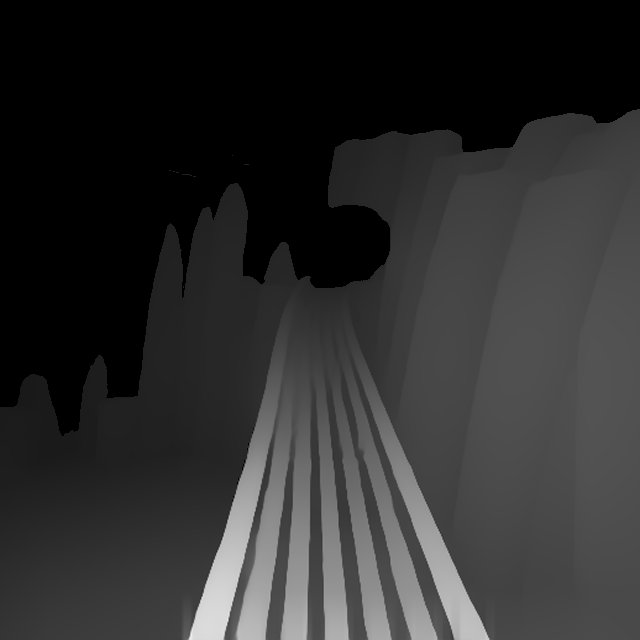
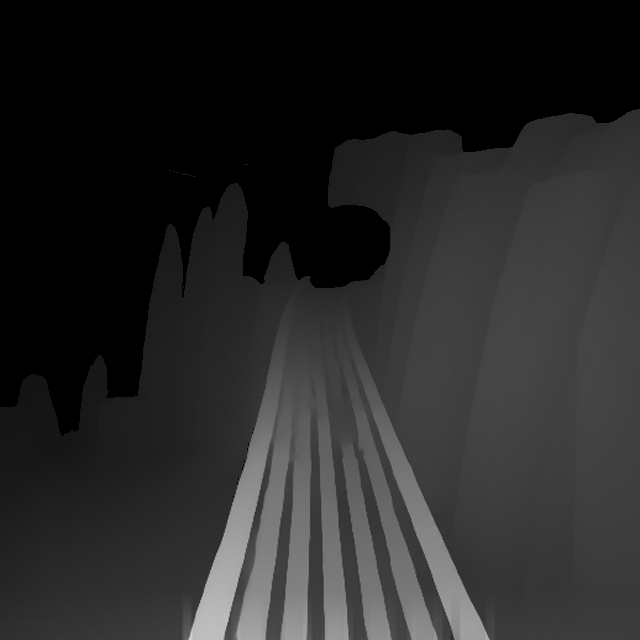
MASS 84: depth steps kept only where the model bears them out
agree_depth.py rebuilds the depth from its own gradients. A step over 10%
that neither the model's mesh nor its fused cloud bears out is flattened to
the mesh's surface, which removes Depth Anything's slabs on the rock wall. A
step the cloud bears out stays: the lamp post is in the cloud though not in
the mesh. So do steps over half the value. view_check.py --connected draws the
faces as the viewer does, so a false step smears and is counted: 24.57
against 25.30 for the live depth over 52 views. Holding the levels to the
mesh too made it worse. Original, Layered and the walk (MASS 89 the same)
are rebuilt from it.

Claude-Session: https://claude.ai/code/session_01PGTZsQJKeQ77ippduWGzGV

Changed region(s): [[0.5312, 0.7812, 0.7812, 1.0], [0.2812, 0.8125, 0.4375, 1.0]]

diff --git a/cube/myst3/colmap/agree_depth.py b/cube/myst3/colmap/agree_depth.py
@@ -1,0 +1,222 @@
+#!/usr/bin/env python3
+"""
+A node's depth whose steps are those the network and the model's mesh agree
+on: the network's shape, rebuilt from its gradients with each step checked
+against the mesh.
+
+    python agree_depth.py SITE OUT_DIR --names N1 ... N6 --mesh MESH_DIR
+        --node-depth node_depth.json [--tau 0.1] [--keep-above 0.5]
+        [--max-span 0.3] [--lam 0.01] [--masks MASKS --node 4084] [--band 48]
+
+SITE holds the node's depth (<name>_measured-depth.png, node_depth.py's:
+Depth Anything fitted to what was measured); MESH_DIR mesh_depth.py's output
+for the node (<name>_mesh-z.npy and _mesh-span.npy, in the site depth's
+units). Working in q = r_far / r on each face, between every pixel and its
+right and lower neighbour:
+  - a step is a change of more than --tau of the value over the two pixels
+    either side;
+  - where the network steps and the mesh, reliable there (its triangle
+    spanning under --max-span radians, not under the sky and water masks),
+    does not, the network's step was one it made up (MASS 84's rock wall: a
+    slab per column): the gradient there is the mesh's;
+  - where the mesh steps and the network does not, the mesh's (a seam between
+    its flat patches) is ignored: the network's gradient stays;
+  - with --cloud, a step the fused cloud bears out (something nearer by --tau
+    within a few px of its near side, after cloud_depth.py's filters) stays:
+    the lamp post beside MASS 84's walkway is in the cloud and not the mesh,
+    and is as wide as the rock wall's made-up slabs, which the cloud has as
+    a smooth wall;
+  - a network step of more than --keep-above of the value stays whatever the
+    mesh says, and with --thin so does any step beside a thin near thing (one
+    nearer than round it by 10% and gone after an opening --thin px across):
+    rails, posts and slats the mesh never had, whose steps off the wall behind
+    are about a slab's.
+The depth is then the one whose gradients are those, held to the mesh with
+weight --lam where the mesh is reliable (so a face the network put at the
+wrong distance overall, MASS 84's face 3, comes to the mesh's) and very
+weakly to the network's own depth elsewhere: a sparse linear solve (scipy).
+The six faces are blended at their seams (node_depth.feather, --band px) and
+written in the site's encoding with r_far set from the new depth, beyond it
+the farthest level, never the sky. Needs numpy, Pillow, opencv-python, scipy;
+node_depth.py beside it.
+"""
+import argparse
+import json
+import os
+import sys
+
+import cv2
+import numpy as np
+from PIL import Image
+
+sys.path.insert(0, os.path.dirname(os.path.abspath(__file__)))
+from node_depth import feather  # noqa: E402
+
+RATIO = 20.0
+
+
+def steps_of(q, tau):
+    """Pairs (i, i+1) along x and along y where q changes by more than tau of
+    its value over the two pixels either side, and the relative size."""
+    out = []
+    for ax in (1, 0):
+        prev = np.roll(q, 1, ax); nxt2 = np.roll(q, -2, ax)
+        nxt = np.roll(q, -1, ax)
+        lo = np.maximum(np.minimum(prev, nxt2), 1e-9)
+        rel = np.abs(nxt2 - prev) / lo
+        rel1 = np.abs(nxt - q) / np.maximum(np.minimum(q, nxt), 1e-9)
+        size = np.maximum(rel, rel1)
+        out.append((size > tau, size))
+    return out
+
+
+def cloud_q(xyz, R, t, N, norm, r_far, scale, q, mask, window=5, behind=0.6, gate=2.5):
+    """The fused cloud projected into a face (nearest point a pixel), in q, with
+    cloud_depth.py's filters: not behind a nearer point within window px, not
+    more than gate times off q, not under mask."""
+    Y = xyz @ R.T + t
+    Y = Y[Y[:, 2] > 1e-3]
+    x = Y[:, 0] / Y[:, 2]; y = Y[:, 1] / Y[:, 2]
+    k = (np.abs(x) < 1) & (np.abs(y) < 1)
+    Y, x, y = Y[k], x[k], y[k]
+    px = np.clip(((x + 1) * N / 2).astype(int), 0, N - 1); py = np.clip(((y + 1) * N / 2).astype(int), 0, N - 1)
+    z = np.full((N, N), np.inf); np.minimum.at(z, (py, px), Y[:, 2])
+    qc = np.where(np.isfinite(z), r_far / (np.where(np.isfinite(z), z, 1) * norm / scale), 0.0)
+    has = (qc > 0) & mask
+    near = cv2.dilate(np.where(has, qc, 0).astype(np.float32), np.ones((window, window), np.uint8))
+    has &= qc >= behind * near
+    has &= np.abs(np.log(np.maximum(qc, 1e-9) / np.maximum(q, 1e-9))) < np.log(gate)
+    return np.where(has, qc, 0.0)
+
+
+def solve(q, gx, gy, wx, wy, anchor, wa):
+    """The field whose differences are gx, gy (weights wx, wy) and which is held
+    to anchor with weights wa."""
+    import scipy.sparse as sp
+    import scipy.sparse.linalg as spl
+    H, W = q.shape
+    n = H * W
+    idx = np.arange(n).reshape(H, W)
+    rows, cols, vals, b = [], [], [], np.zeros(n)
+    for (a0, b0, g, w) in ((idx[:, :-1], idx[:, 1:], gx[:, :-1], wx[:, :-1]), (idx[:-1, :], idx[1:, :], gy[:-1, :], wy[:-1, :])):
+        i, j, g, w = a0.ravel(), b0.ravel(), g.ravel(), w.ravel()
+        m = w > 0
+        i, j, g, w = i[m], j[m], g[m], w[m]
+        rows += [i, j, i, j]; cols += [i, j, j, i]; vals += [w, w, -w, -w]
+        np.add.at(b, j, w * g); np.add.at(b, i, -w * g)        # q_j - q_i = g
+    A = sp.csr_matrix((np.concatenate(vals), (np.concatenate(rows), np.concatenate(cols))), shape=(n, n))
+    A = A + sp.diags(wa.ravel() + 1e-9)
+    x = spl.spsolve(A.tocsc(), b + wa.ravel() * anchor.ravel())
+    return x.reshape(H, W)
+
+
+def main():
+    ap = argparse.ArgumentParser(description=__doc__, formatter_class=argparse.RawDescriptionHelpFormatter)
+    ap.add_argument('site'); ap.add_argument('out')
+    ap.add_argument('--names', nargs=6, required=True); ap.add_argument('--mesh', required=True)
+    ap.add_argument('--node-depth', required=True)
+    ap.add_argument('--tau', type=float, default=0.1); ap.add_argument('--keep-above', type=float, default=0.5)
+    ap.add_argument('--max-span', type=float, default=0.3); ap.add_argument('--lam', type=float, default=0.01)
+    ap.add_argument('--thin', type=int, default=0, help='protect the steps of thin near things this many px across (0: off)')
+    ap.add_argument('--cloud', help='a fused cloud (fused.ply): a network step the cloud bears out is kept')
+    ap.add_argument('--sparse', help="with --cloud: the cloud's text model, with the node's faces (f<k>/MA-<node>.jpg)")
+    ap.add_argument('--scale', type=float, default=1.0, help="with --cloud: the model's units in the site depth's")
+    ap.add_argument('--masks'); ap.add_argument('--node')
+    ap.add_argument('--band', type=int, default=48)
+    ap.add_argument('--depth-suffix', default='_measured-depth.png')
+    a = ap.parse_args()
+    os.makedirs(a.out, exist_ok=True)
+    r_far = json.load(open(a.node_depth))['r_far']
+    faces, report = {}, {}
+    poses, xyz = {}, None
+    if a.cloud:
+        from node_depth import qvec2rot, read_ply_xyz
+        want = {f'f{k}/MA-{a.node}.jpg': k for k in range(1, 7)}
+        with open(os.path.join(a.sparse, 'images.txt')) as fh:
+            for line in fh:
+                p = line.split()
+                if len(p) >= 10 and p[9] in want:
+                    poses[want[p[9]]] = (qvec2rot(np.array(p[1:5], float)), np.array(p[5:8], float))
+        xyz = read_ply_xyz(a.cloud)
+    for k, name in enumerate(a.names, 1):
+        d8 = np.asarray(Image.open(os.path.join(a.site, name + a.depth_suffix)).convert('L')).astype(np.float64)
+        N = d8.shape[0]
+        u = (np.arange(N) + .5) / N * 2 - 1
+        xx, yy = np.meshgrid(u, u)
+        norm = np.sqrt(1 + xx ** 2 + yy ** 2)
+        sky = d8 == 0
+        q = np.where(sky, 1.0, 1 + (RATIO - 1) * d8 / 255)       # the sky held at the farthest level
+        zm = np.load(os.path.join(a.mesh, f'{name}_mesh-z.npy')).astype(np.float64)
+        span = np.load(os.path.join(a.mesh, f'{name}_mesh-span.npy'))
+        if zm.shape[0] != N:
+            zm = cv2.resize(zm, (N, N), interpolation=cv2.INTER_NEAREST); span = cv2.resize(span, (N, N), interpolation=cv2.INTER_NEAREST)
+        good = (zm > 0) & (span < a.max_span) & ~sky
+        mmask = np.ones((N, N), bool)
+        if a.masks and a.node:
+            mp = os.path.join(a.masks, f'f{k}', f'MA-{a.node}.jpg.png')
+            if os.path.exists(mp):
+                mmask = np.asarray(Image.open(mp).convert('L').resize((N, N), Image.NEAREST)) > 127
+                good &= mmask
+        qm = np.where(good, r_far / np.maximum(zm * norm, 1e-9), 0.0)
+        (sn_x, sz_x), (sn_y, sz_y) = steps_of(q, a.tau)
+        (sm_x, _), (sm_y, _) = steps_of(np.where(good, qm, q), a.tau)
+        gx = np.roll(q, -1, 1) - q; gy = np.roll(q, -1, 0) - q
+        gmx = np.roll(qm, -1, 1) - qm; gmy = np.roll(qm, -1, 0) - qm
+        okx = good & np.roll(good, -1, 1); oky = good & np.roll(good, -1, 0)
+        # the network's steps the mesh does not have, and are not big: the mesh's gradient there
+        fx = sn_x & ~sm_x & okx & (sz_x < a.keep_above)
+        fy = sn_y & ~sm_y & oky & (sz_y < a.keep_above)
+        if a.cloud:
+            # a step the cloud bears out stays: something near, by tau, within a few px
+            # of the step's near side (a lamp post the mesh lost is in the cloud; a
+            # slab Depth Anything made up is not: there the cloud has a smooth wall)
+            if k in poses:
+                qc = cloud_q(xyz, *poses[k], N, norm, r_far, a.scale, q, ~sky & mmask)
+                near_c = cv2.dilate(qc.astype(np.float32), np.ones((7, 7), np.uint8))
+                for f_, ax in ((fx, 1), (fy, 0)):
+                    nb = np.roll(q, -1, ax)
+                    far_q = np.minimum(q, nb)
+                    near_px = np.where(q >= nb, near_c, np.roll(near_c, -1, ax))
+                    f_ &= ~(near_px >= far_q * (1 + a.tau))
+                kept_c = int(fx.sum() + fy.sum())
+        if a.thin > 0:
+            # not beside thin near things (nearer than round them by 10%, gone after an
+            # opening --thin px across): an overhead rail or a lamp post steps off the wall
+            # behind it by about what a slab does, and the mesh never had it
+            qf = q.astype(np.float32)
+            loc = cv2.medianBlur(np.clip(qf * 10, 0, 255).astype(np.uint8), 31).astype(np.float32) / 10
+            nearer = ((qf > 1.1 * np.maximum(loc, 1e-3)) & ~sky).astype(np.uint8)
+            kk = cv2.getStructuringElement(cv2.MORPH_ELLIPSE, (a.thin, a.thin))
+            thin = (nearer > 0) & ~(cv2.morphologyEx(nearer, cv2.MORPH_OPEN, kk) > 0)
+            thin = cv2.dilate(thin.astype(np.uint8), np.ones((5, 5), np.uint8)) > 0
+            fx &= ~(thin | np.roll(thin, -1, 1)); fy &= ~(thin | np.roll(thin, -1, 0))
+        gx = np.where(fx, gmx, gx); gy = np.where(fy, gmy, gy)
+        wx = np.ones_like(q); wy = np.ones_like(q)
+        wx[:, -1] = 0; wy[-1, :] = 0
+        wx[sky | np.roll(sky, -1, 1)] = 0.01; wy[sky | np.roll(sky, -1, 0)] = 0.01     # loose against the sky
+        anchor = np.where(good, qm, q)
+        wa = np.where(good, a.lam, 1e-4)
+        wa[sky] = 1.0
+        qn = solve(q, gx, gy, wx, wy, anchor, wa)
+        qn = np.where(sky, 0.0, np.maximum(qn, 1e-3))
+        flat = int(fx.sum() + fy.sum())
+        report[name] = {'flattened_pairs': flat, 'mesh_good': float(good.mean())}
+        print(f'{name}: mesh reliable on {good.mean() * 100:.1f}%; {flat} network steps the mesh does not have flattened', flush=True)
+        faces[k] = {'r': np.where(qn > 0, r_far / np.maximum(qn, 1e-12), np.inf), 'name': name}
+    feather(faces, N, N, a.band)
+    allr = np.concatenate([f['r'][::4, ::4].ravel() for f in faces.values()])
+    allr = allr[np.isfinite(allr)]
+    r_far_new = float(RATIO * np.percentile(allr, 0.5))
+    for k, f in faces.items():
+        qn = np.where(np.isfinite(f['r']), r_far_new / f['r'], 0.0)
+        d = np.clip((qn - 1) / (RATIO - 1), 0, 1)
+        out8 = np.where(qn > 0, np.maximum(np.rint(d * 255), 1), 0).astype(np.uint8)
+        Image.fromarray(out8).save(os.path.join(a.out, f['name'] + a.depth_suffix))
+    with open(os.path.join(a.out, 'agree_depth.json'), 'w') as fh:
+        json.dump({'r_far': r_far_new, 'r_far_before': r_far, 'tau': a.tau, 'keep_above': a.keep_above,
+                   'max_span': a.max_span, 'lam': a.lam, 'faces': report}, fh, indent=1)
+    print(f'r_far {r_far:.4f} before, {r_far_new:.4f} now')
+
+
+if __name__ == '__main__':
+    main()

diff --git a/cube/myst3/colmap/view_check.py b/cube/myst3/colmap/view_check.py
@@ -112,6 +112,37 @@ def splat(P, cols, R, t, cam, src_f, grow=1.0):
     return img, np.isfinite(zb)
 
 
+def stretch_points(Pg, Cg, R, t, cam, longest=96):
+    """The node's faces drawn as the viewer draws them, a surface through every
+    pixel and its right and lower neighbours: where two neighbours land 2 px
+    or more apart in the view, points along the line between them (in 3D,
+    so the stretch is where the surface is), their colours blended, at most
+    `longest` a line. Pg, Cg: (6, N, N, 3) positions (NaN where none) and
+    colours. Returns the extra points and colours."""
+    w, h, fx, fy, cx, cy = cam
+    Y = Pg @ R.T + t
+    z = Y[..., 2]
+    with np.errstate(all='ignore'):
+        x = fx * Y[..., 0] / z + cx; y = fy * Y[..., 1] / z + cy
+    good = np.isfinite(z) & (z > 1e-3)
+    inside = good & (x > -50) & (x < w + 50) & (y > -50) & (y < h + 50)
+    outP, outC = [], []
+    for a_, b_ in ((np.s_[:, :, :-1], np.s_[:, :, 1:]), (np.s_[:, :-1, :], np.s_[:, 1:, :])):
+        L = np.hypot(x[b_] - x[a_], y[b_] - y[a_])
+        ok = good[a_] & good[b_] & (inside[a_] | inside[b_]) & (L >= 2)
+        if not ok.any():
+            continue
+        m = np.minimum(np.ceil(L[ok]), longest).astype(int) - 1          # points inside each line
+        P1, P2 = Pg[a_][ok], Pg[b_][ok]; C1, C2 = Cg[a_][ok], Cg[b_][ok]
+        e = np.repeat(np.arange(len(m)), m)
+        start = np.repeat(np.cumsum(m) - m, m)
+        f = ((np.arange(len(e)) - start + 1) / np.repeat(m + 1, m))[:, None]
+        outP.append(P1[e] + f * (P2[e] - P1[e])); outC.append(C1[e] + f * (C2[e] - C1[e]))
+    if not outP:
+        return np.zeros((0, 3)), np.zeros((0, 3), np.float32)
+    return np.concatenate(outP), np.concatenate(outC).astype(np.float32)
+
+
 def main():
     ap = argparse.ArgumentParser(description=__doc__, formatter_class=argparse.RawDescriptionHelpFormatter)
     ap.add_argument('dense'); ap.add_argument('sparse')
@@ -120,6 +151,9 @@ def main():
     ap.add_argument('--scale', type=float, default=1.0)
     ap.add_argument('--radius', type=float, default=3.0); ap.add_argument('--frames', type=int, default=40)
     ap.add_argument('--out')
+    ap.add_argument('--connected', action='store_true',
+                    help="draw the faces as the viewer does, a surface joining neighbouring pixels (stretched across "
+                         "steps), the sky at r_far as the viewer puts it, not as separate points: a false step then smears")
     a = ap.parse_args()
     cams, imgs = read_model(a.sparse)
     own = {k: f'f{k}/MA-{a.node}.jpg' for k in range(1, 7)}
@@ -150,9 +184,9 @@ def main():
         face_dirs[k] = d / np.linalg.norm(d, axis=1, keepdims=True)
         face_cols[k] = img.reshape(-1, 3)
     src_f = FACE_F * N / 640
-    points = {}
+    points, grids = {}, {}
     for name, ddir, suffix, rjson in a.variant:
-        P, cols = [], []
+        P, cols, gP, gC = [], [], [], []
         r_far = json.load(open(rjson))['r_far'] if name != 'infinity' else 1.0
         for k, nm in enumerate(a.names, 1):
             if name == 'infinity':
@@ -160,10 +194,15 @@ def main():
             else:
                 d8 = np.asarray(Image.open(os.path.join(ddir, nm + suffix)).convert('L').resize((N, N), Image.NEAREST)).astype(float).ravel()
                 q = 1 + (RATIO - 1) * d8 / 255
-                r = np.where(d8 > 0, r_far / q * a.scale, np.nan)
+                # the viewer puts the sky (0) at r_far, the farthest it draws
+                r = np.where(d8 > 0, r_far / q * a.scale, r_far * a.scale if a.connected else np.nan)
             keep = np.isfinite(r)
             P.append(C + face_dirs[k][keep] * r[keep, None]); cols.append(face_cols[k][keep])
+            if a.connected:
+                gP.append((C + face_dirs[k] * r[:, None]).reshape(N, N, 3)); gC.append(face_cols[k].reshape(N, N, 3))
         points[name] = (np.concatenate(P), np.concatenate(cols))
+        if a.connected:
+            grids[name] = (np.stack(gP), np.stack(gC))
     names = [v[0] for v in a.variant]
     print('view'.ljust(28) + 'dist ' + ''.join(n[:14].rjust(15) for n in names) + '   covered', flush=True)
     sums = {n: [] for n in names}
@@ -180,7 +219,13 @@ def main():
         if target.shape[:2] != (cam[1], cam[0]):
             print(f'{view}: picture {target.shape[1]}x{target.shape[0]}, camera {cam[0]}x{cam[1]}', flush=True)
             continue
-        renders = {n: splat(*points[n], R, t, cam, src_f) for n in names}
+        if a.connected:
+            renders = {}
+            for n in names:
+                eP, eC = stretch_points(*grids[n], R, t, cam)
+                renders[n] = splat(np.concatenate([points[n][0], eP]), np.concatenate([points[n][1], eC]), R, t, cam, src_f)
+        else:
+            renders = {n: splat(*points[n], R, t, cam, src_f) for n in names}
         # the pixels every real depth covers; the turn alone puts everything
         # far off and lands elsewhere in a view from the side, so it is judged
         # on what it covers of those

diff --git a/cube/myst3/README.md b/cube/myst3/README.md
@@ -1249,6 +1249,38 @@ viewer as `amateria-movies3-moved` (the cloud with them kept as
 `fused_withmall.ply`). They can come back once MALL is placed and the turret
 masked.
 
+**A score that counts stretching** (`view_check.py --connected`): the faces
+drawn as the viewer draws them, a surface through every pixel and its
+neighbours, so a false step smears across what it covers in another camera's
+view, the sky at r_far as the viewer puts it. With it the ranking matches what
+the eye saw: over 52 views, live 24.7, the first model's mesh with the network
+25.0, the mesh with every movie 25.3 (the one that looked blotchy).
+
+**Steps the network and the model agree on** (`colmap/agree_depth.py`): the
+live depth rebuilt from its own gradients, except where it steps by more than
+10% and neither the mesh (reliable there) nor the fused cloud (something near
+within a few px of the step's near side) bears the step out; there the mesh's
+gradient is used. Steps over half the value stay whatever the mesh says.
+
+| version | over 52 views |
+|---|---|
+| live | 25.30 |
+| network steps the mesh lacks flattened, levels held to the mesh | 25.5–25.9 |
+| the same, levels left as the network's | 24.72 |
+| the same, steps beside thin near things (11 or 17 px) kept | 24.69 |
+| the same, steps the fused cloud bears out kept | **24.57** |
+
+Holding the levels to the mesh is what spoiled the first try. The thin-thing
+rule did not save the lamp post on face 4, 24 px wide at 640, as wide as the
+rock wall's made-up slabs; the cloud has the post (near) and the slabs (a
+smooth wall), so its vote tells them apart. With it about half as many steps
+are flattened (face 4: 4,355 pairs against 9,187), the rails and slats keep
+their holes in the layered build, and the post stays in front of the wall at
+a shallower step (2.7 against 2.2, where it was 3.8 against 2.7), too small
+now to cut a hole round. MASS 84 is shipped with it (Original, Layered and the
+walk, MASS 89 made the same way); the depth before is `site_live_backup/` on
+the PC.
+
 The tears at small depth are the viewer's: its tear test weighed only the
 step in the stored depth, so at a tiny depth it cut where it cuts at full
 depth. How far a step stretches is the step times the depth setting, so the
